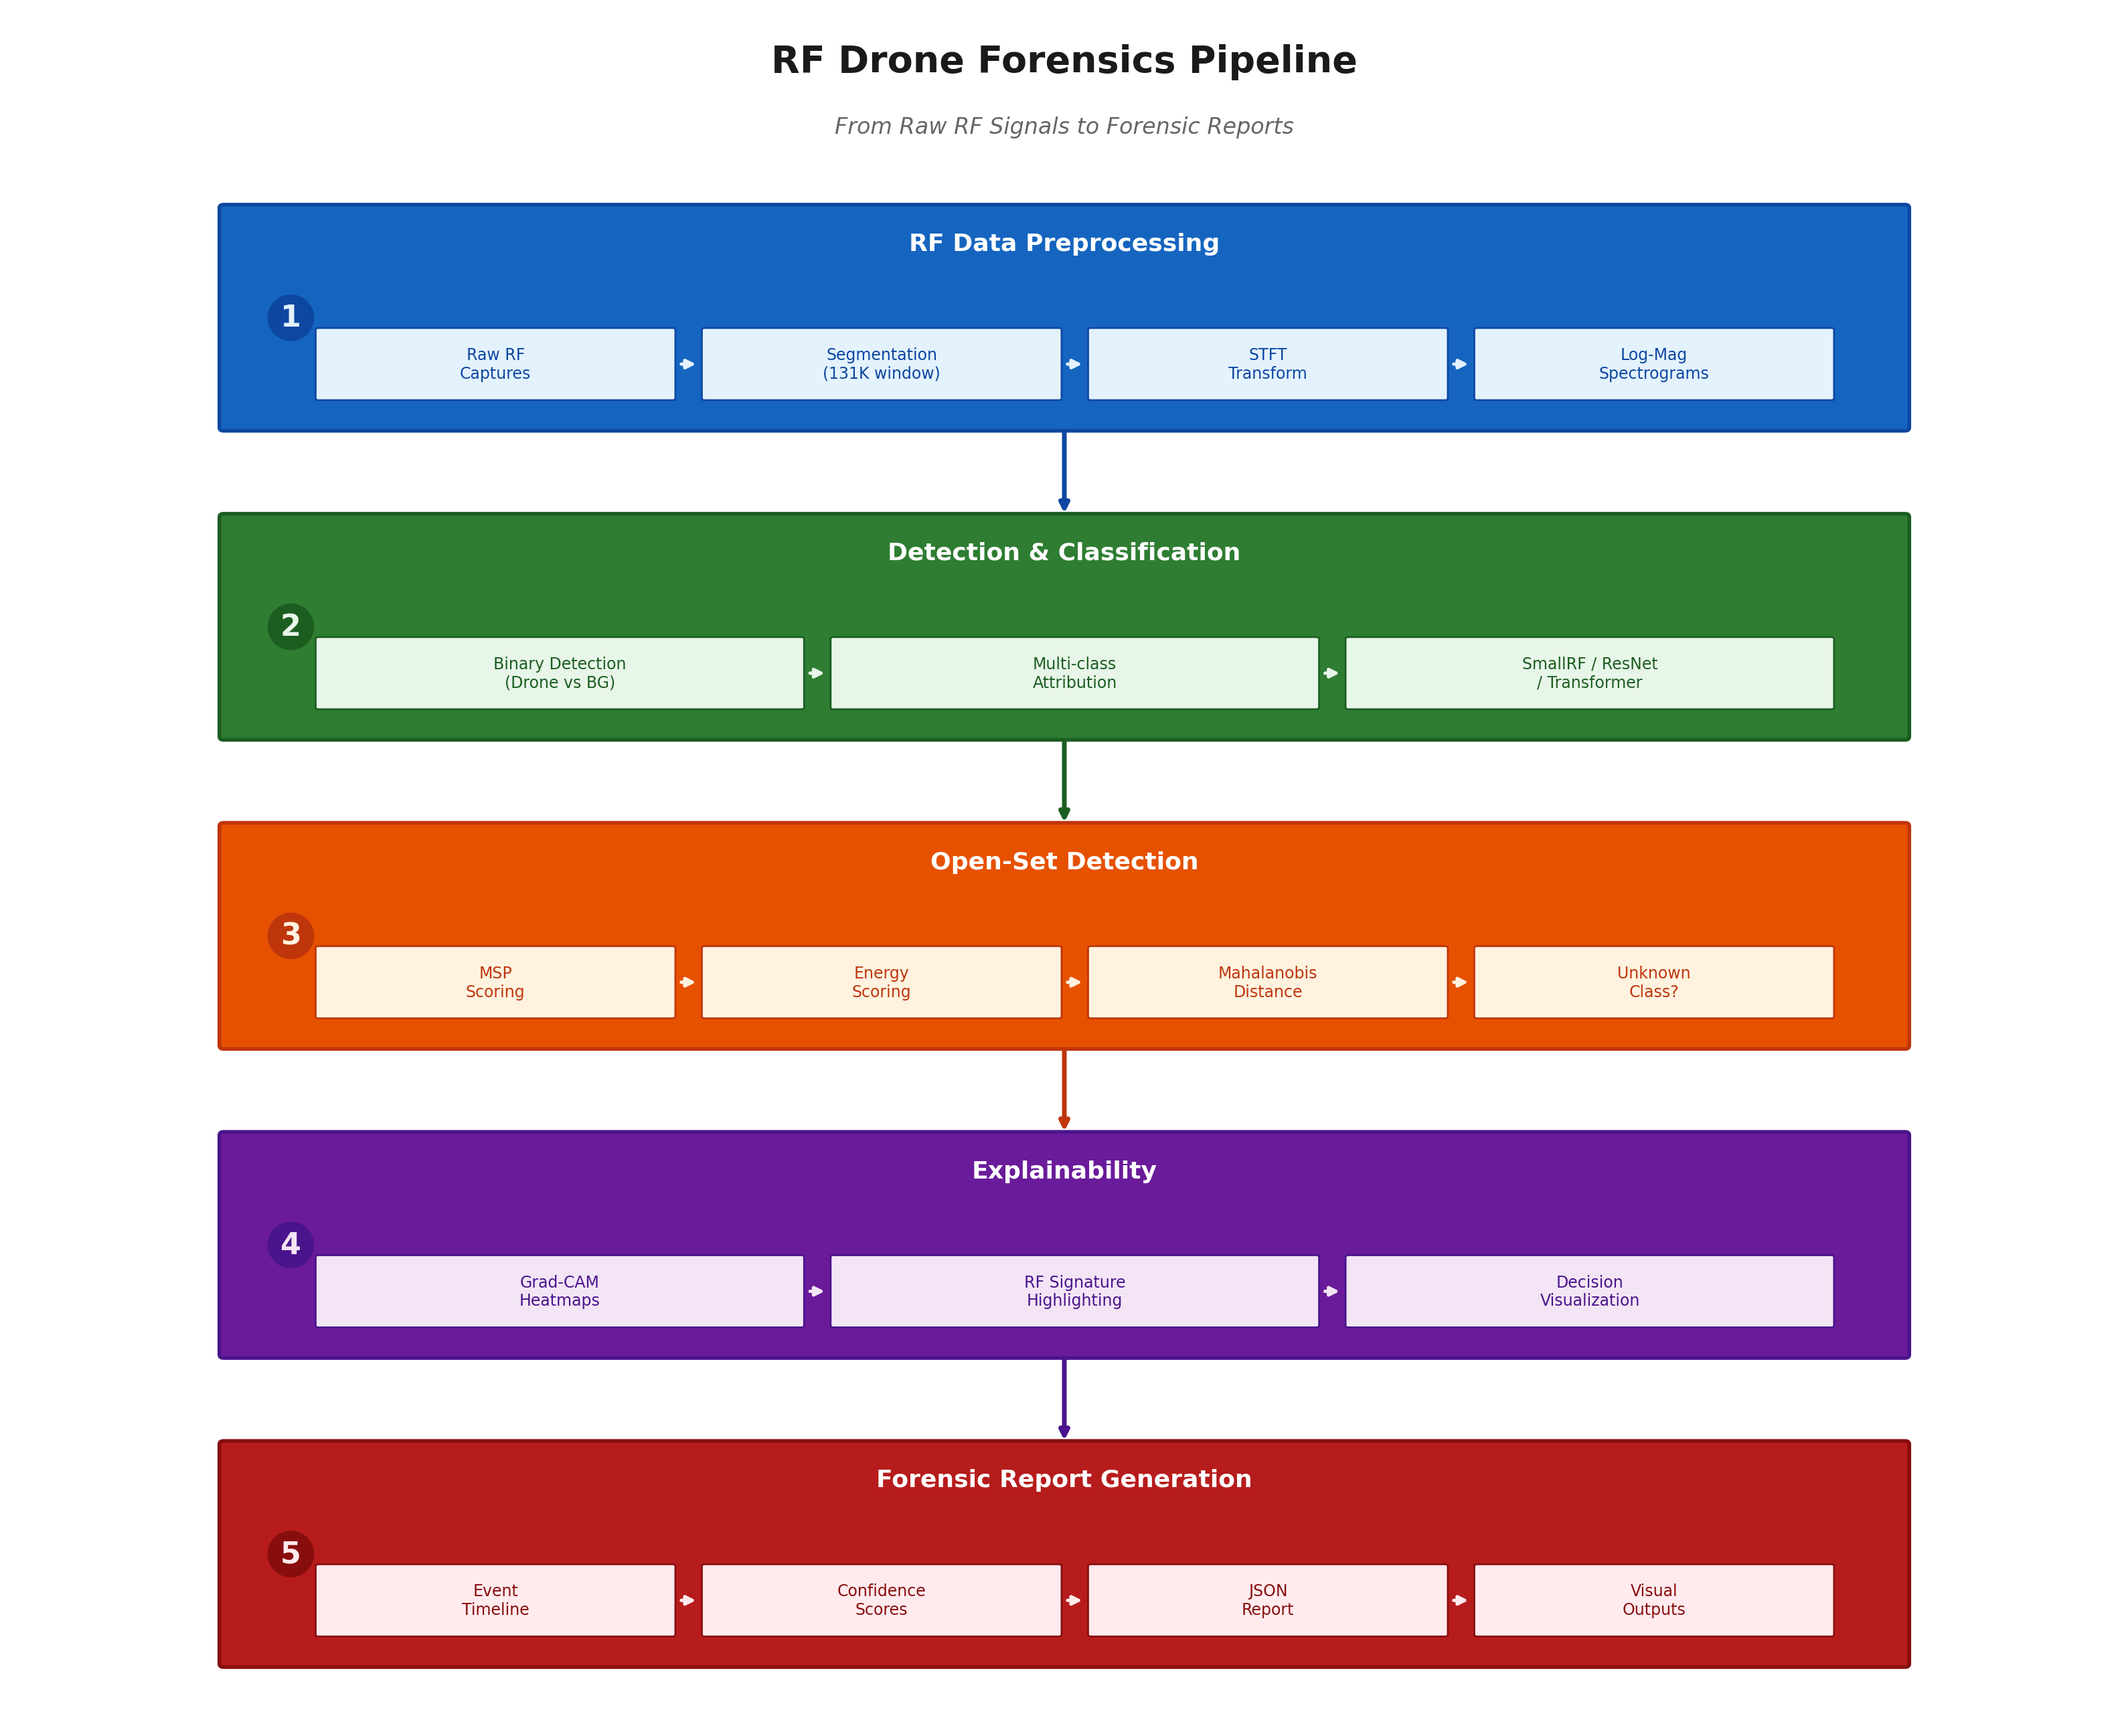
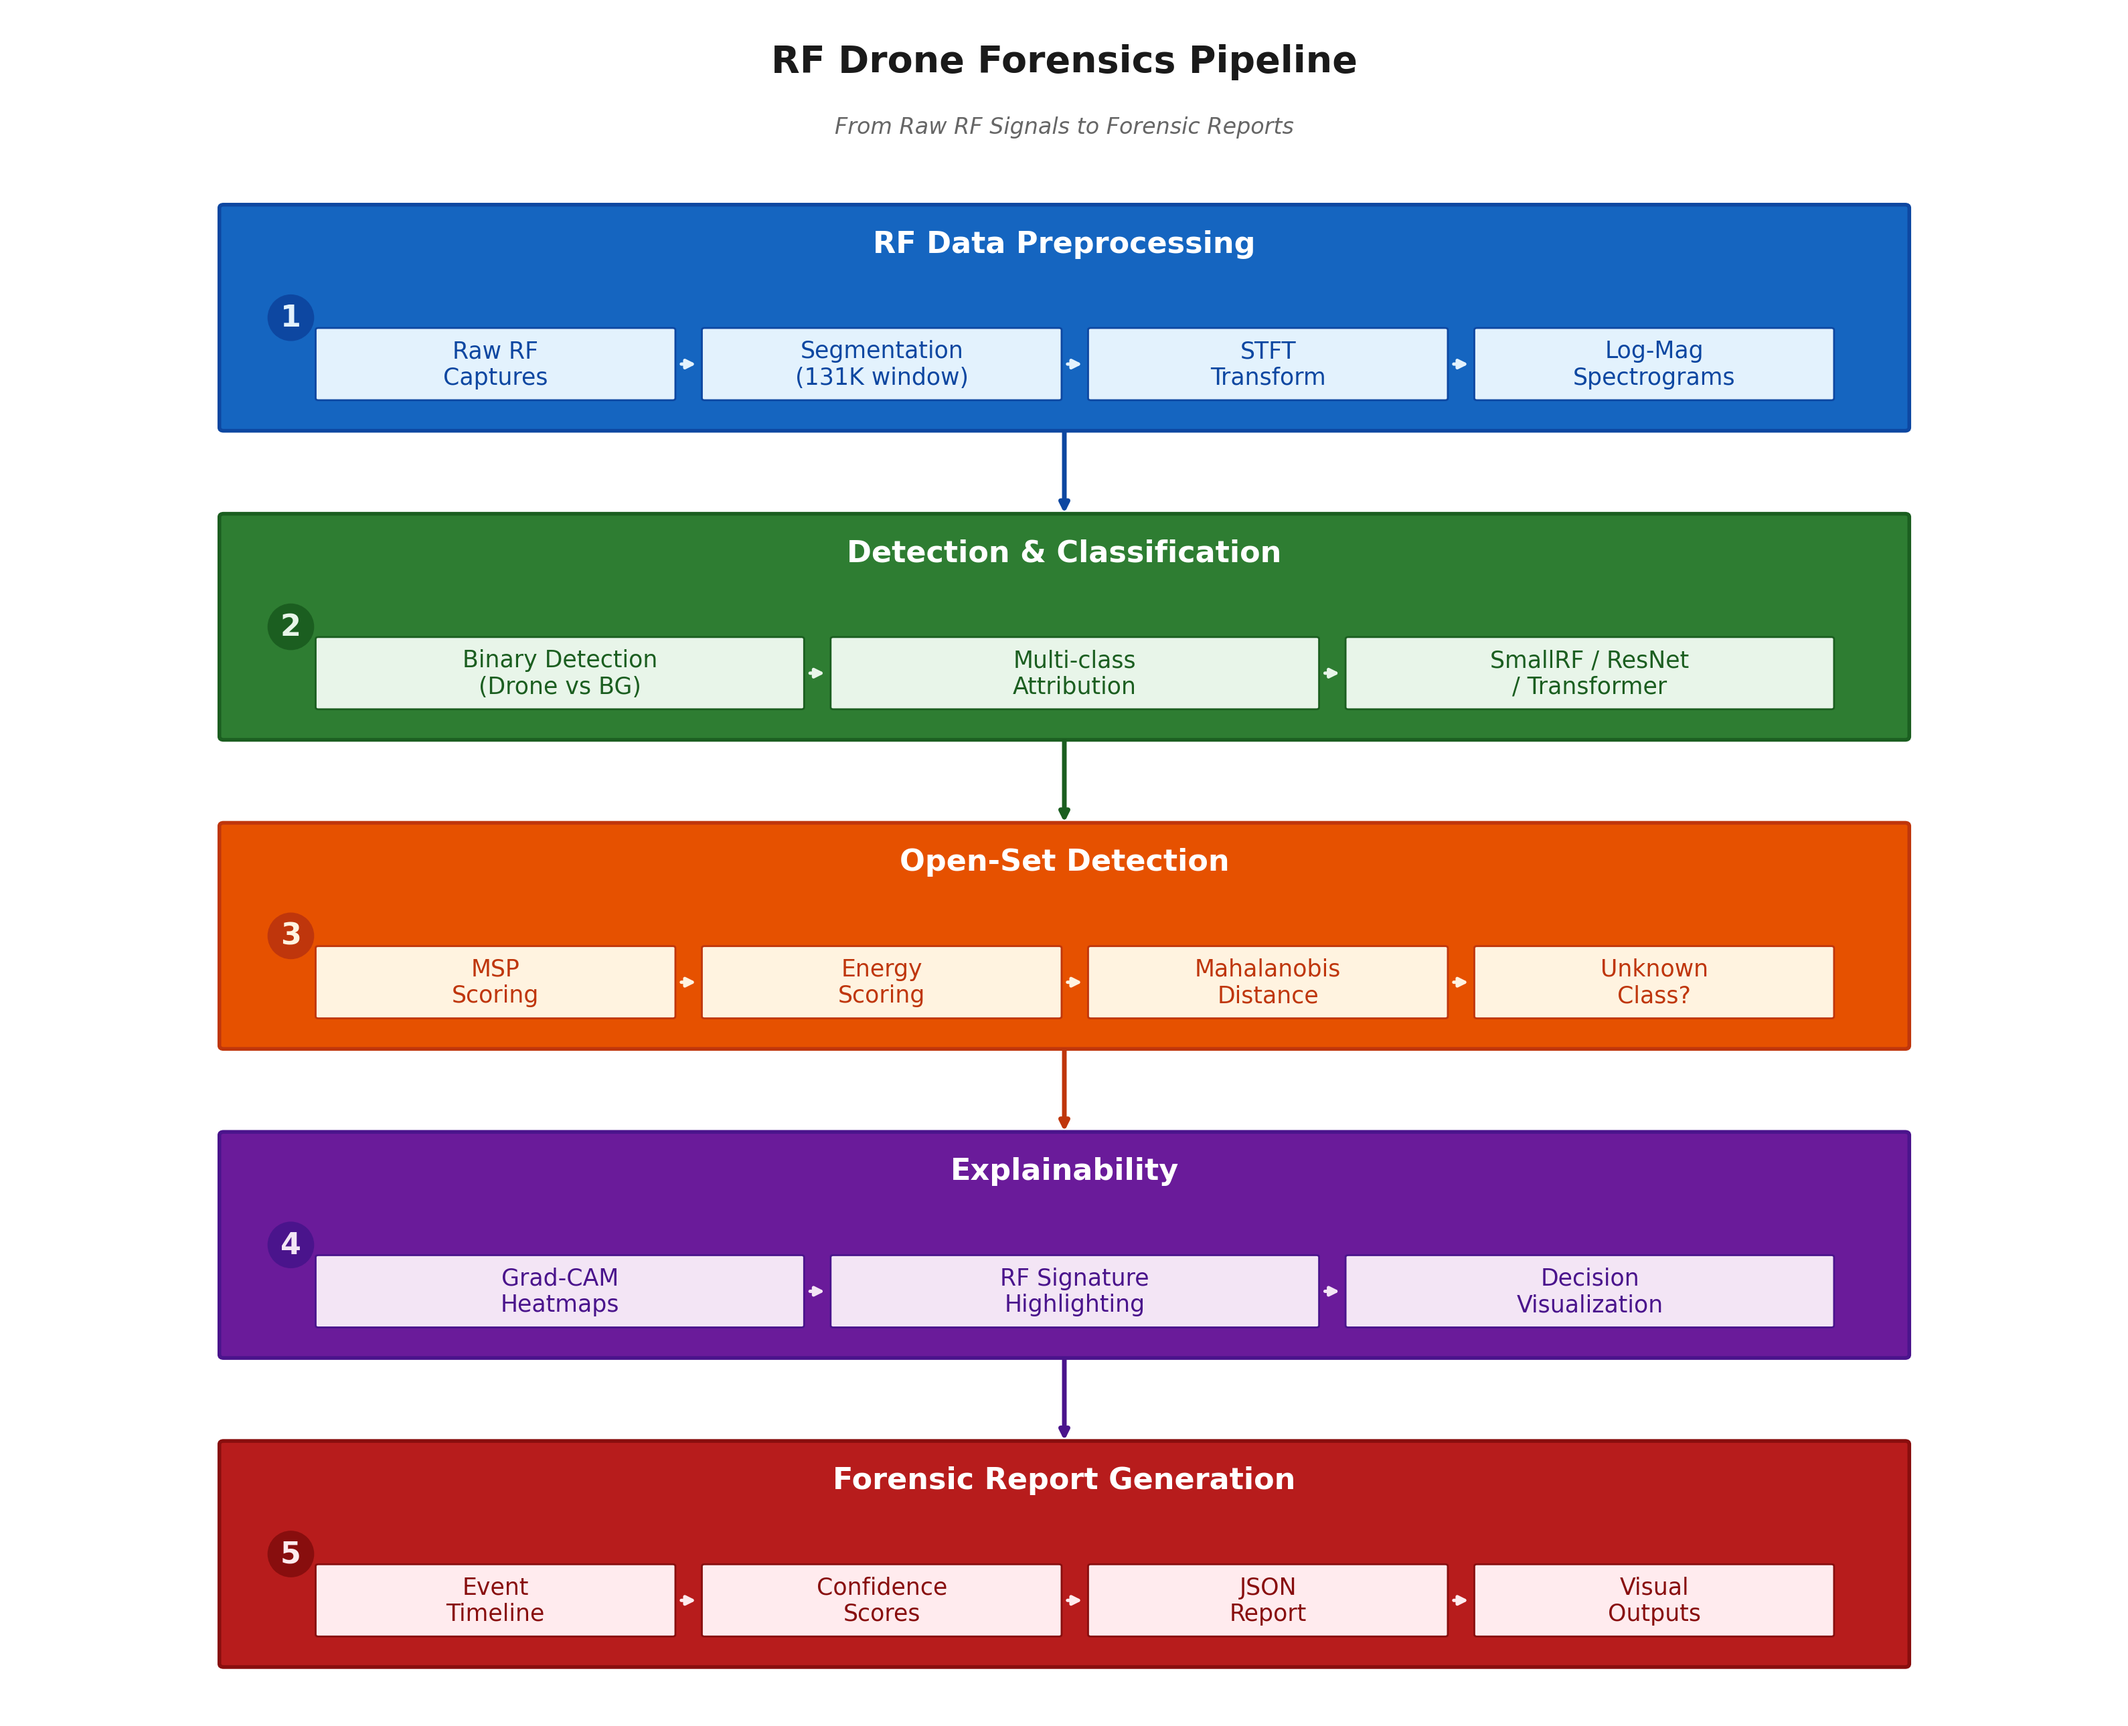
Make pipeline pic better

diff --git a/src/evaluation/plot_pipeline.py b/src/evaluation/plot_pipeline.py
@@ -45,7 +45,7 @@ def draw_phase(ax, y, label, color_main, color_dark, color_light, color_text,
 
     # Phase title (top area of box)
     ax.text(PHASE_X + PHASE_W / 2, y + PHASE_H - 0.22, label,
-            ha="center", va="center", fontsize=13, fontweight="bold",
+            ha="center", va="center", fontsize=16, fontweight="bold",
             color="white", zorder=4)
 
     # ── Auto-layout sub-boxes ──
@@ -70,7 +70,7 @@ def draw_phase(ax, y, label, color_main, color_dark, color_light, color_text,
         )
         ax.add_patch(sb)
         ax.text(sx + sw / 2, sy + SUB_H / 2, txt,
-                ha="center", va="center", fontsize=8.5,
+                ha="center", va="center", fontsize=12.5,
                 color=color_text, fontweight="medium", zorder=4)
 
         # Arrow between sub-boxes
